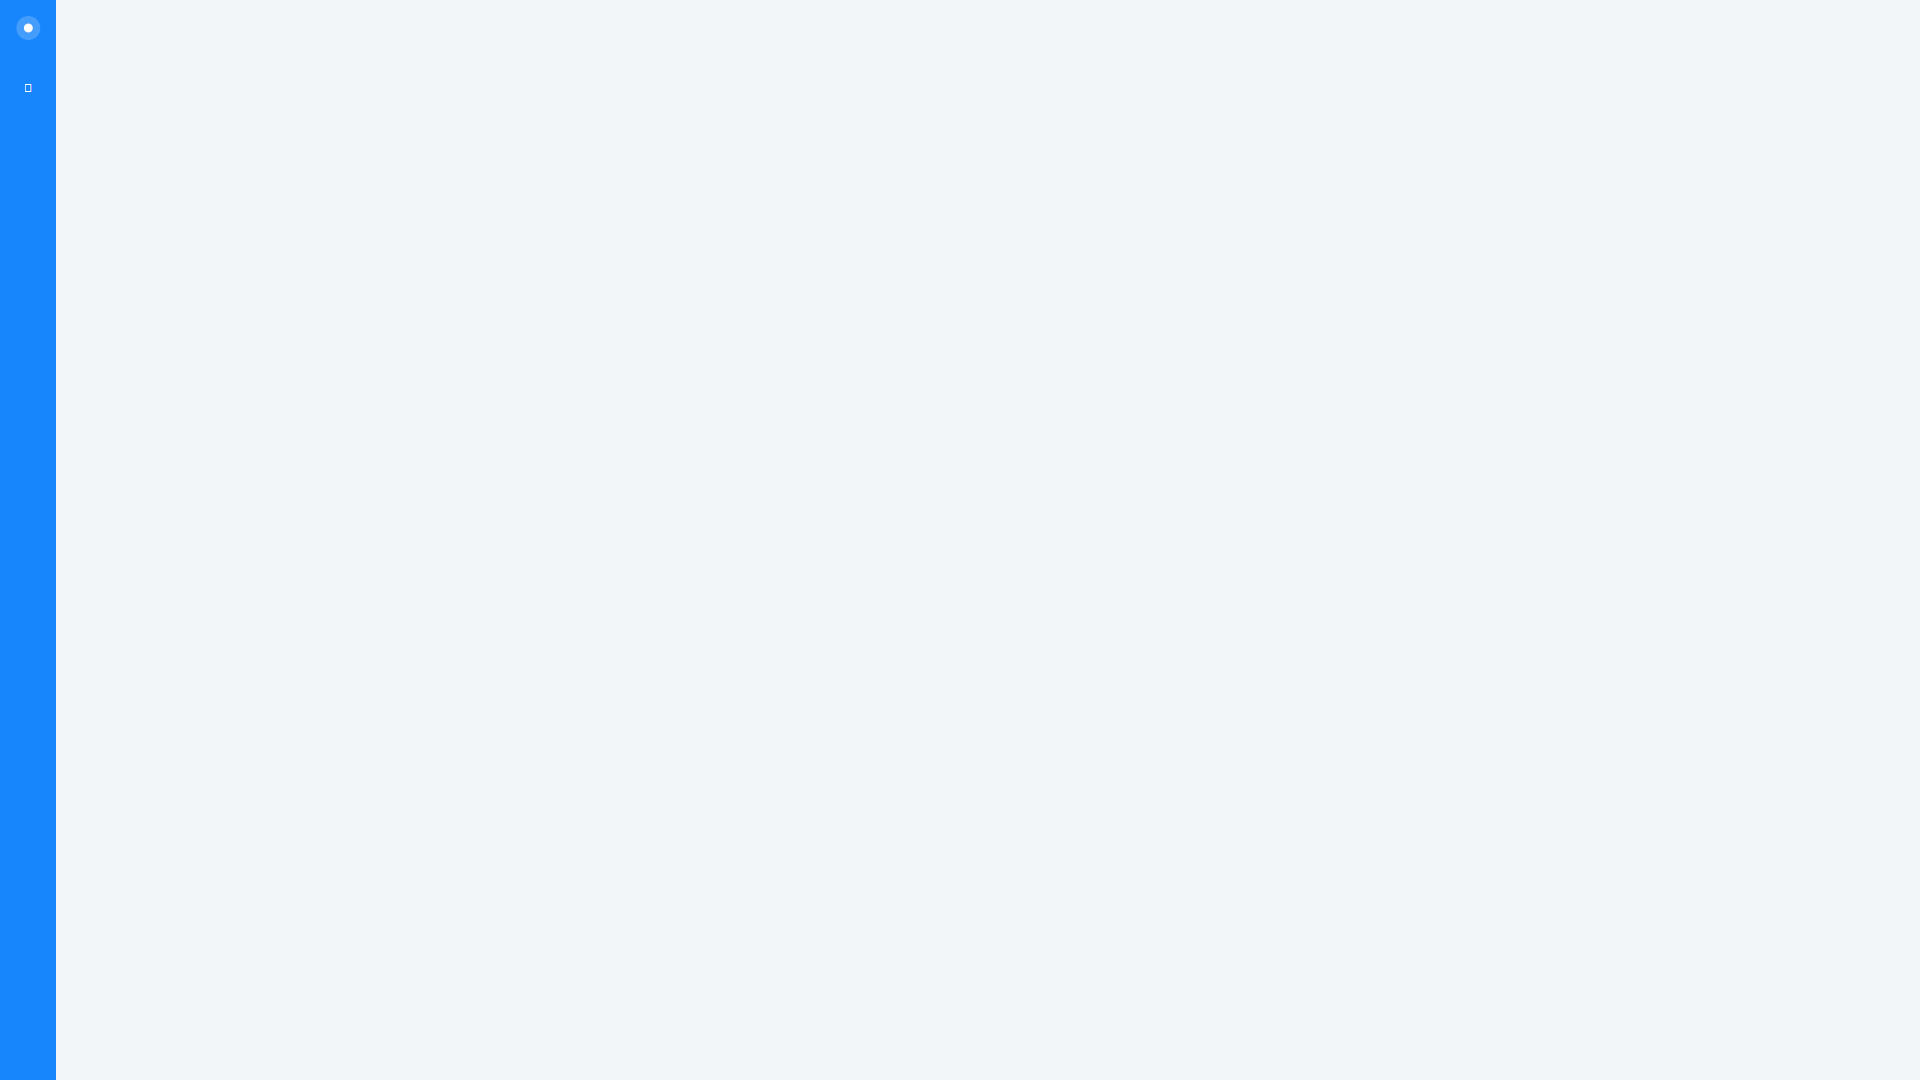
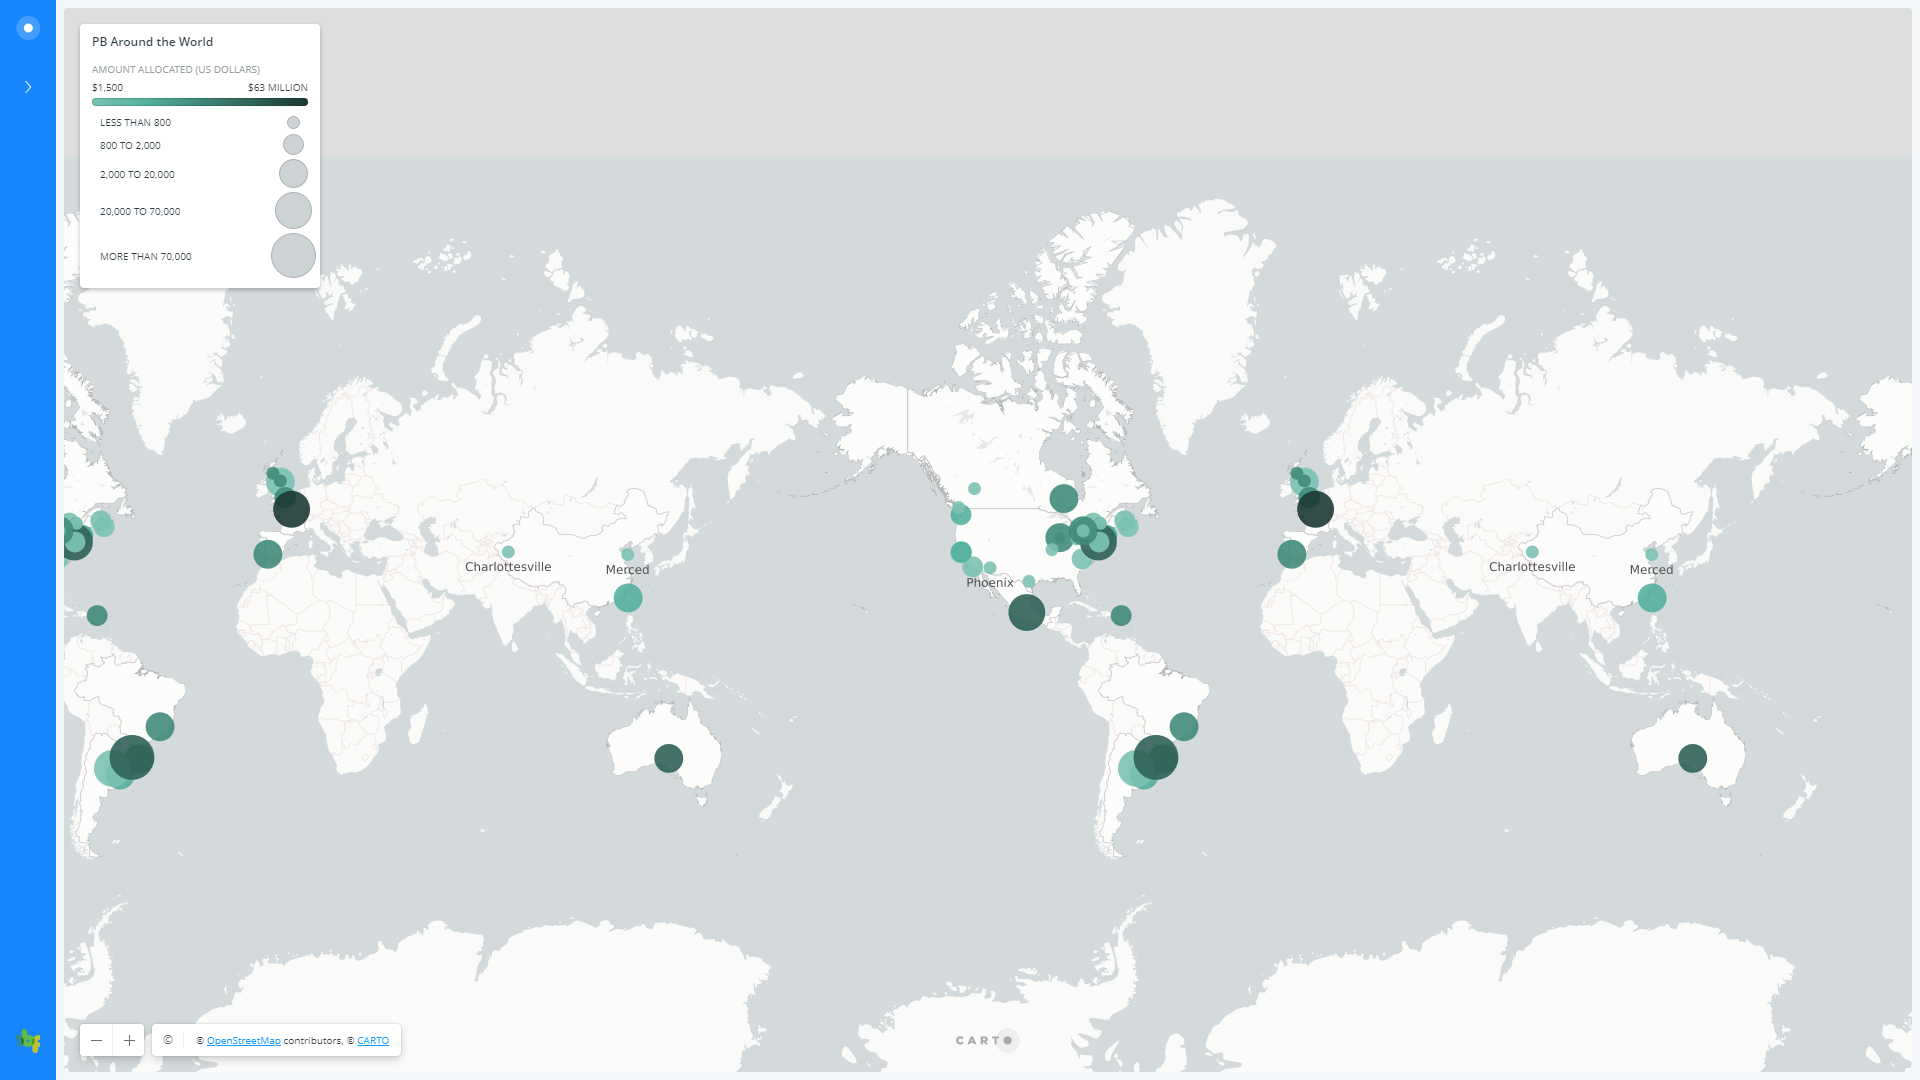
update screenshots

diff --git a/website/src/components/SearchEngine.vue b/website/src/components/SearchEngine.vue
@@ -95,7 +95,7 @@
                 items:[],
                 filter: null,
                 searchText: undefined,
-                currentSearchQuery: undefined,
+                currentSearchQuery: "",
 
             
     }),

diff --git a/server/data/screenshots.py b/server/data/screenshots.py
@@ -23,7 +23,9 @@ def get_screenshot_of_website(url):
 
 
 # api -> https://pypi.org/project/html2image/
-hti = Html2Image()
+hti = Html2Image(
+    custom_flags=['--virtual-time-budget=10000', '--hide-scrollbars']
+)
 #ToDo: replace absolute path with relative
 hti.output_path = 'C:\\Users\\Phil\\OneDrive - Universität Münster\\Dokumente\\coding\\ba\\ba\\server\\data\\previewImages'
 
